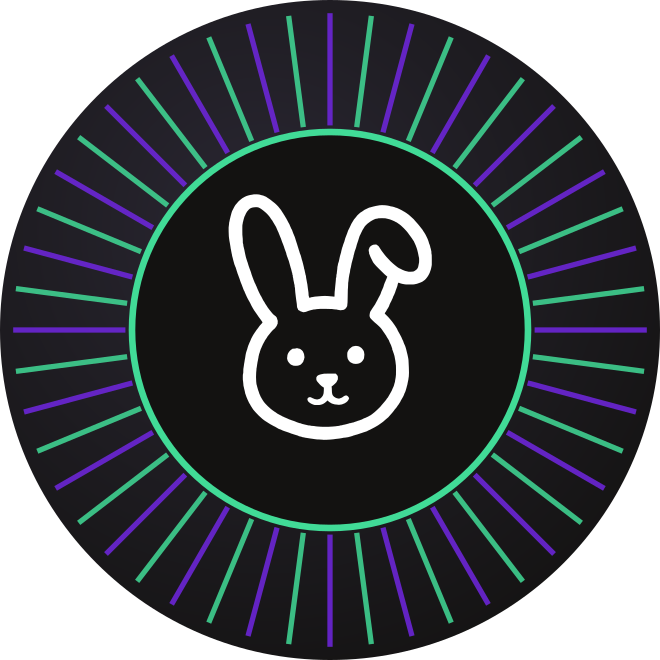
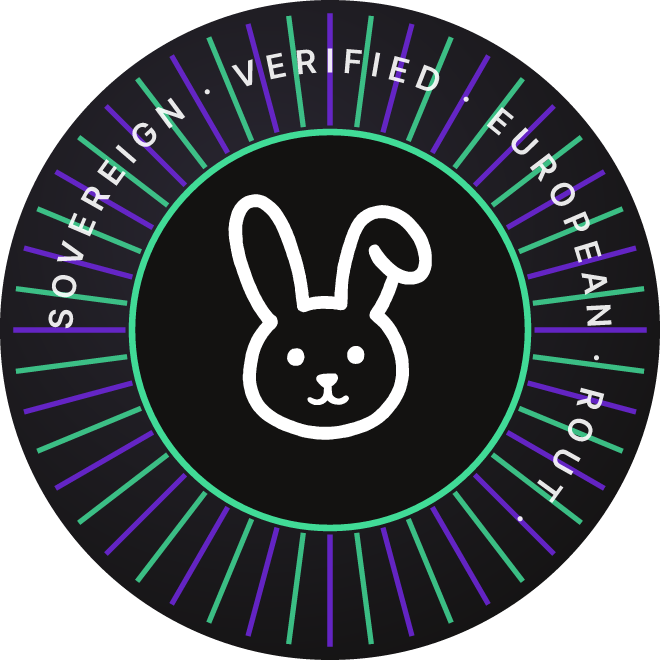
Changes

diff --git a/src/lib/wallet/wallet-art.ts b/src/lib/wallet/wallet-art.ts
@@ -116,3 +116,29 @@ ${bunny(48, 36, 46, c.fg)}
 <rect x="1" y="1" width="${w - 2}" height="${h - 2}" fill="none" stroke="${c.accent}" stroke-opacity="0.45" stroke-width="2"/>
 </svg>`;
 }
+
+/** Wide logo (1280×400, Google Wallet "wide logo" field): bunny + ROUT wordmark on ink. */
+export function walletWideLogoSvg(): string {
+  const w = 1280, h = 400;
+  return `<svg xmlns="http://www.w3.org/2000/svg" width="${w}" height="${h}" viewBox="0 0 ${w} ${h}"><rect width="${w}" height="${h}" fill="${BRAND.ink}"/>
+${bunnyWithRings(220, h / 2, 150, BRAND.paper)}
+<text x="420" y="246" font-family="Inter, sans-serif" font-weight="600" font-size="150" letter-spacing="30" fill="${BRAND.paper}">ROUT</text></svg>`;
+}
+
+/** Brand hero (1032×336): generic class-level hero showing a ROUT Card without personal data. */
+export function walletBrandHeroSvg(): string {
+  return walletHeroSvg({ displayName: "ROUT Card", handle: "rout", sovereignId: "SOVEREIGN · EU", bg: "#1b1530", accent: BRAND.mint, fg: BRAND.paper, space: "root" });
+}
+
+/** Image module (1860×620): ROUT Card front beside its three scan layers. */
+export function walletCardModuleSvg(): string {
+  const w = 1860, h = 620;
+  const rows = [["Public QR", "Shows public identity and card status only"], ["NFC handshake", "Authorises access at a verified reader"], ["Rotating token", "Owner-only, single-use digital proof"]];
+  const list = rows.map(([k, v], i) => `<circle cx="1040" cy="${232 + i * 120}" r="10" fill="${i % 2 ? BRAND.purple : BRAND.mint}"/>
+<text x="1072" y="${242 + i * 120}" font-family="Inter, sans-serif" font-weight="600" font-size="40" fill="${BRAND.paper}">${k}</text>
+<text x="1072" y="${284 + i * 120}" font-family="Inter, sans-serif" font-size="26" fill="${BRAND.paper}" opacity="0.62">${v}</text>`).join("");
+  const card = walletHeroSvg({ displayName: "ROUT Card", handle: "rout", sovereignId: "SOVEREIGN · EU", bg: "#1b1530", accent: BRAND.mint, fg: BRAND.paper, space: "root" }).replace("<svg ", `<svg x="80" y="142" width="860" height="280" `);
+  return `<svg xmlns="http://www.w3.org/2000/svg" width="${w}" height="${h}" viewBox="0 0 ${w} ${h}"><rect width="${w}" height="${h}" fill="${BRAND.ink}"/>${guilloche(w, h, BRAND.purple, 0.07)}
+<text x="80" y="96" font-family="Inter, sans-serif" font-weight="600" font-size="30" letter-spacing="8" fill="${BRAND.mint}">ROUT CARD · THREE LAYERS</text>
+${card}${list}</svg>`;
+}
